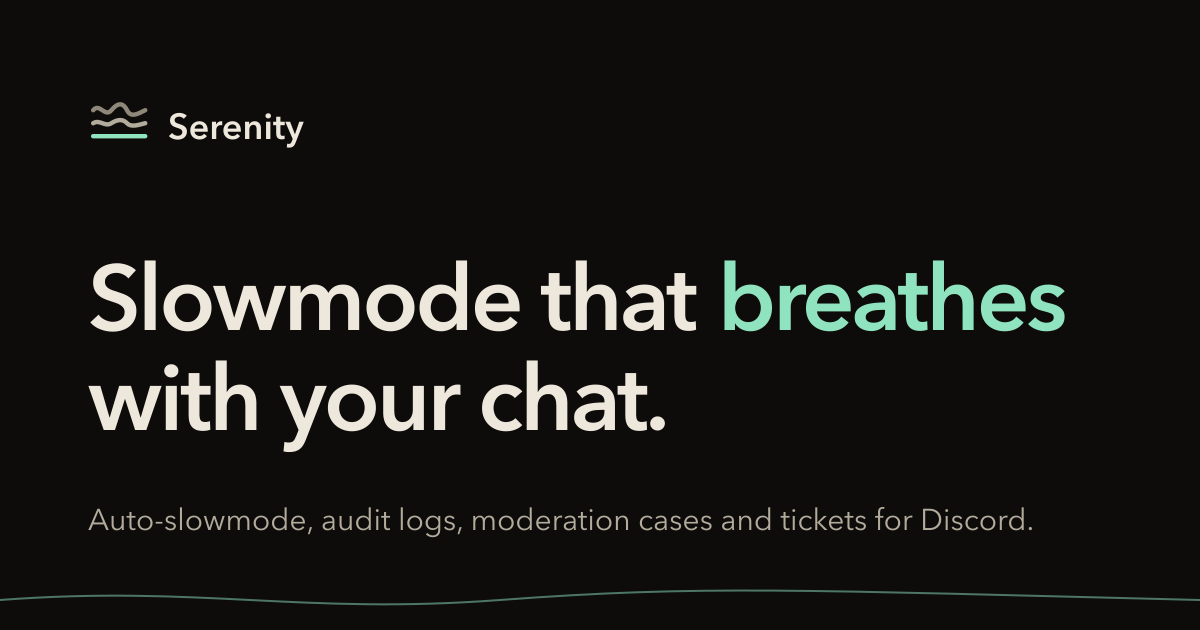
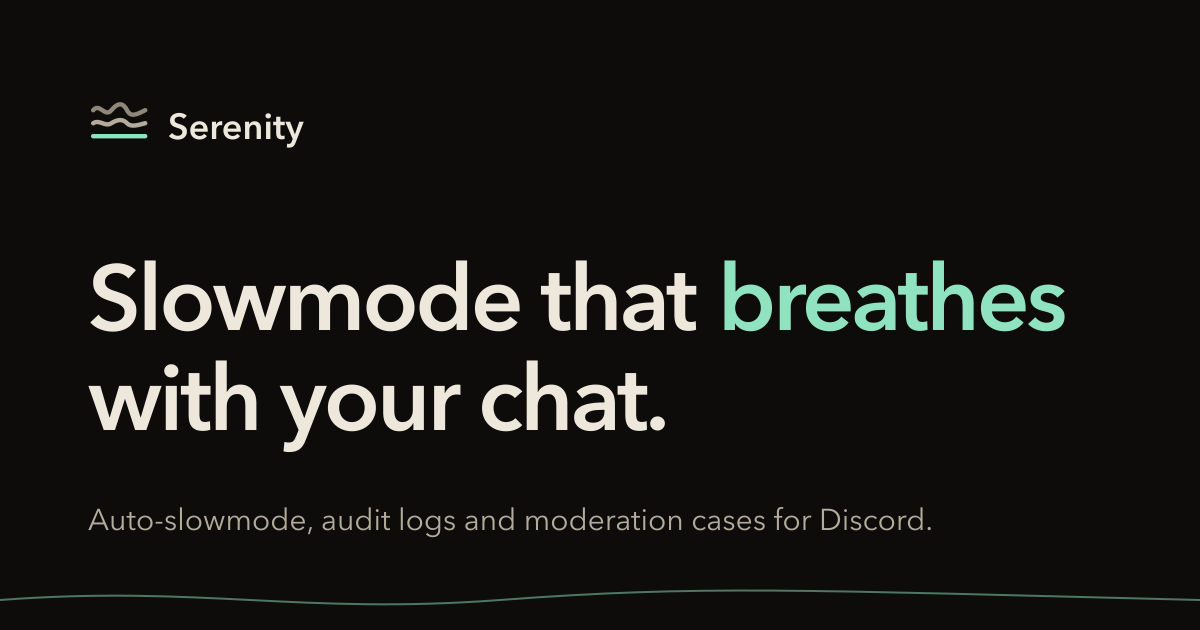
Landing page: drop tickets, 75+ servers (#112)
fix: landing page doesn't advertise tickets; 75+ servers

Tickets aren't built yet, so the hero line, meta description, social preview
image and the Tickets section no longer mention them (and the section's CSS
goes too). The server count is now 75+.

Changed region(s): [[0.37, 0.7841, 0.8633, 0.8444]]

diff --git a/dashboard/src/routes/+page.svelte b/dashboard/src/routes/+page.svelte
@@ -8,7 +8,7 @@
 	const SITE = import.meta.env.VITE_SITE_URL ?? '';
 	const TITLE = 'Serenity: slowmode that breathes with your chat';
 	const DESCRIPTION =
-		'A Discord bot that eases slowmode up and down on its own as each channel gets busy or calms down. Audit logging, moderation cases and tickets included.';
+		'A Discord bot that eases slowmode up and down on its own as each channel gets busy or calms down. Audit logging and moderation cases included.';
 
 	// Logged-in visitors get "Open dashboard" instead of the login button.
 	let me: Me | null = $state(null);
@@ -119,8 +119,8 @@
 		<div>
 			<h1>Slowmode that <em>breathes</em> with your chat.</h1>
 			<p>
-				Serenity watches each channel’s pace and eases slowmode up and down on its own. Logging,
-				cases and tickets included.
+				Serenity watches each channel’s pace and eases slowmode up and down on its own. Logging
+				and moderation cases included.
 			</p>
 			<div class="ctas">
 				<a class="btn pri lg" href={inviteUrl()} data-sveltekit-reload>Add to Discord <Icon name="arrow" /></a>
@@ -224,46 +224,8 @@
 		</div>
 	</section>
 
-	<section class="lsec" id="tickets">
-		<div class="how" style="align-items:center">
-			<div>
-				<h2>Tickets for whatever your community runs on.</h2>
-				<p class="lead">
-					A Minecraft network, a freelance studio, a game community. Every ticket type gets its own
-					fields, stages and context, so a ticket knows what it’s about. An appeal knows the player’s
-					IGN and every earlier ticket about it. A Discord report knows the member’s mod history.
-				</p>
-				<p class="lead" style="margin-top:14px">Panels, transcripts, auto-close and stats are free and unlimited.</p>
-			</div>
-			<div class="demo" role="figure" aria-label="Example: a Minecraft ban appeal with linked tickets by IGN">
-				<div class="demo-in">
-					<span class="fg2">#appeal-notch_2</span><span style="flex:1"></span>
-					<span class="stg"><i style="background:#8f887a"></i>Received</span>
-				</div>
-				<div style="padding:14px 16px;display:grid;gap:12px">
-					<dl class="answers" style="grid-template-columns:repeat(3,minmax(0,1fr));display:grid">
-						<div><dt>IGN · identity</dt><dd class="mono acc">Notch_2</dd></div>
-						<div><dt>Server</dt><dd>Survival</dd></div>
-						<div><dt>Ban ID</dt><dd class="mono">B-4471</dd></div>
-					</dl>
-					<div class="dossier">
-						<div class="dtop">
-							<Icon name="tickets" />
-							<div style="font-size:13px"><b>3</b> earlier tickets about IGN <span class="mono acc">Notch_2</span></div>
-						</div>
-						<ul class="mini-list" style="border-top:1px solid var(--line)">
-							<li><span class="mono dim">#0124</span><span class="grow">Store issue</span><span class="stg"><i style="background:#8fe3bf"></i>Resolved</span></li>
-							<li><span class="mono dim">#0118</span><span class="grow">Ban appeal</span><span class="stg"><i style="background:#8fe3bf"></i>Accepted</span></li>
-							<li><span class="mono dim">#0112</span><span class="grow">Player report</span><span class="stg"><i style="background:#ef8a78"></i>No action</span></li>
-						</ul>
-					</div>
-				</div>
-			</div>
-		</div>
-	</section>
-
 	<section class="lsec final">
-		<h2 style="margin:0">Running in 60+ servers. Yours next.</h2>
+		<h2 style="margin:0">Running in 75+ servers. Yours next.</h2>
 		<a class="btn pri lg" href={inviteUrl()} data-sveltekit-reload>Add to Discord <Icon name="arrow" /></a>
 	</section>
 </main>

diff --git a/dashboard/src/lib/styles.css b/dashboard/src/lib/styles.css
@@ -295,20 +295,6 @@ dialog[open] .pal-box,dialog[open] .sheet{animation:palin .18s var(--spring)}
 @keyframes tin{from{opacity:0;transform:translateY(8px) scale(.98)}}
 
 .sbadge{display:inline-block;margin-left:8px;padding:0 6px;line-height:17px;border-radius:4px;border:1px solid var(--accln);color:var(--acc);font-family:var(--mono);font-size:10.5px;font-weight:400;vertical-align:1px}
-.answers{display:grid;gap:10px;margin:0}
-.answers dt{font-size:11.5px;color:var(--fg3)}
-.answers dd{margin:1px 0 0;font-size:13px;overflow-wrap:anywhere}
-.dossier{border:1px solid var(--line2);border-radius:var(--r);background:var(--ink);overflow:hidden}
-.dossier .dtop{display:flex;gap:10px;align-items:center;padding:10px 12px}
-.dossier .dg{display:grid;grid-template-columns:repeat(4,minmax(0,1fr));border-top:1px solid var(--line);border-bottom:1px solid var(--line)}
-.dossier .dg div{padding:8px 10px;border-left:1px solid var(--line)}
-.dossier .dg div:first-child{border-left:0}
-.dossier .dg b{display:block;font-family:var(--mono);font-weight:500;font-size:14px}
-.dossier .dg span{font-size:11px;color:var(--fg3)}
-.dossier .hist{padding:6px 12px}
-.dossier .dfoot{padding:2px 12px 10px;font-size:12px;color:var(--fg3)}
-.stg{display:inline-flex;align-items:center;gap:6px;font-size:12px;white-space:nowrap}
-.stg i{width:7px;height:7px;border-radius:2px;flex:none}
 /* responsive */
 @media (max-width:1500px){
   .top-in{grid-template-columns:auto auto 1fr auto;grid-template-areas:"brand guild cmd user" "tabs tabs tabs tabs";height:auto;padding-top:8px;row-gap:0}
